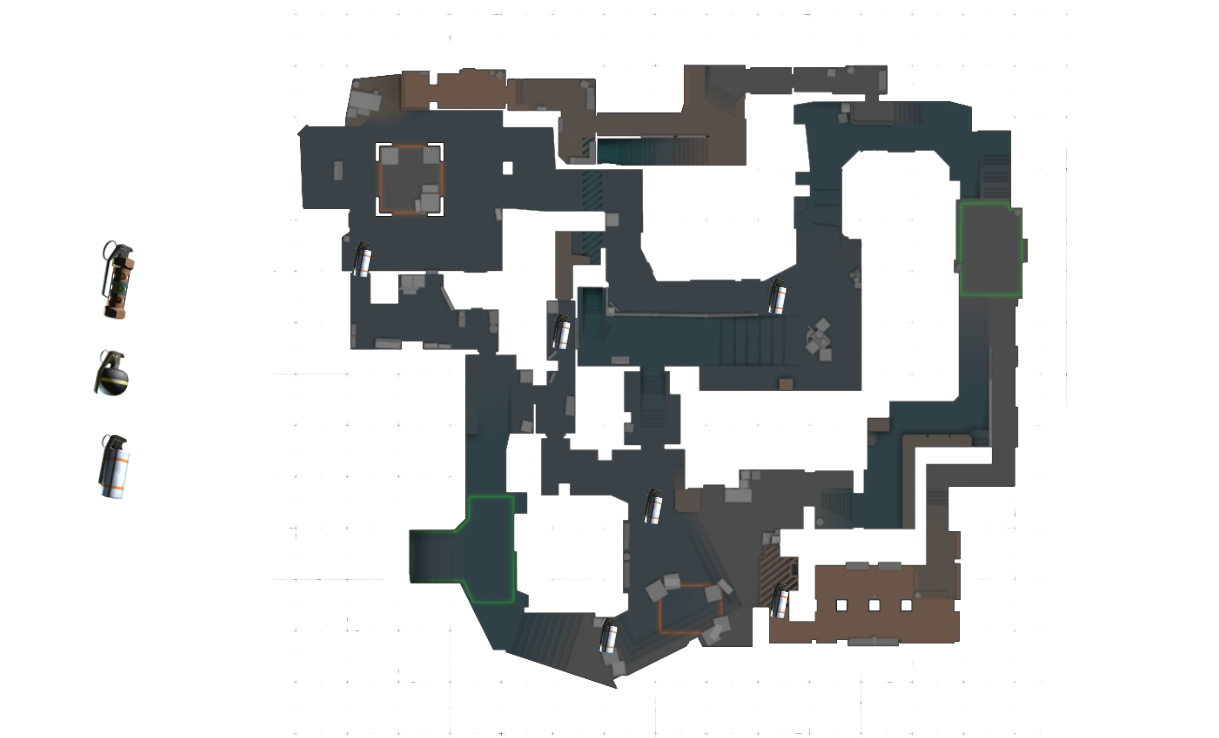
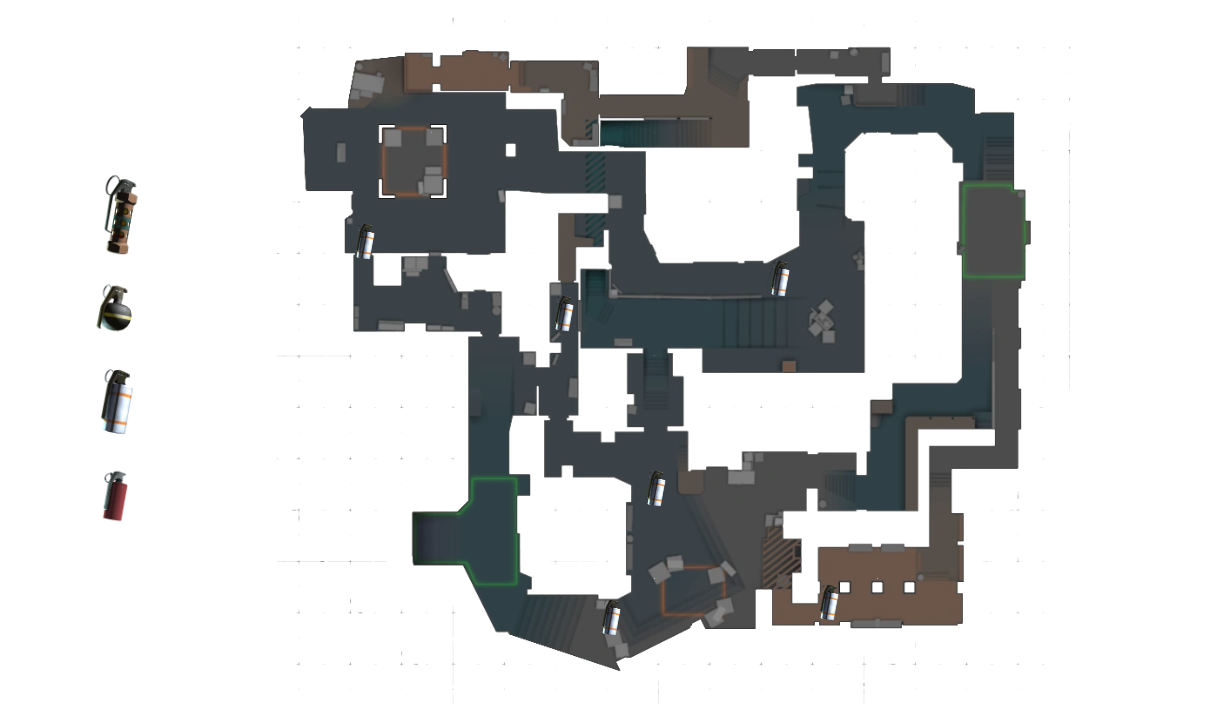
added molotov

Changed region(s): [[0.2438, 0.0625, 0.8534, 0.9688], [0.061, 0.25, 0.1219, 0.75], [0.64, 0.5, 0.6705, 0.5312]]

diff --git a/app/src/pages/maps/Map.tsx b/app/src/pages/maps/Map.tsx
@@ -18,6 +18,10 @@ const ICONS = {
     iconUrl: "../../../assets/csgo_nade.webp",
     iconSize: [85, 60]
   }),
+  "molotov": new Leaflet.Icon({
+    iconUrl: "../../../assets/csgo_molotov.webp",
+    iconSize: [85, 60]
+  }),
   "smokex": new Leaflet.Icon({
     iconUrl: "../../../assets/csgo_smokex.png",
     iconSize: [70, 50]
@@ -28,6 +32,10 @@ const ICONS = {
   }),
   "nadex": new Leaflet.Icon({
     iconUrl: "../../../assets/csgo_nadex.png",
+    iconSize: [85, 60]
+  }),
+  "molotovx": new Leaflet.Icon({
+    iconUrl: "../../../assets/csgo_molotovx.png",
     iconSize: [85, 60]
   })
 }
@@ -192,6 +200,11 @@ function MiniMap({ map, mapping }: { map: string; mapping: { [key: string]: numb
             src="../../../assets/csgo_smoke.webp"
             alt="smoke"
             onClick={() => setType("smoke")}
+          />
+          <img
+            src="../../../assets/csgo_molotov.webp"
+            alt="molotov"
+            onClick={() => setType("molotov")}
           />
         </div>
       </div>

diff --git a/app/src/pages/maps/Mirage.tsx b/app/src/pages/maps/Mirage.tsx
@@ -8,7 +8,7 @@ const MAPPING = {
   "window": [17,-37],
   "a-ramp": [-45,73],
   "jungle": [-47,0],
-  "palace": [-67,51],
+  "palace": [-70,70],
   "market": [23,-94],
   "connector": [0,0],
   "mid-boxes": [14,78],

diff --git a/README.md b/README.md
@@ -6,7 +6,7 @@
 # CS2 Nades
 #### CS2 Nades is an interactive database of 100+ nades for Valve's first person shooter <a href="https://www.counter-strike.net/cs2">Counter-Strike 2</a>.
 #### It is a personal project sparked by a curiosity of how <a href="https://www.csgonades.com/">CSNades</a> is implemented.
-#### CS2 Nades showcases nades for the community favorites Mirage, Inferno, and Overpass through an interactive map.
+#### CS2 Nades showcases nades for community favorites Mirage, Inferno, and Overpass through an interactive map.
 #### <img src="./app/public/README/mirage.png" />
 #### CS2 Nades...
 
